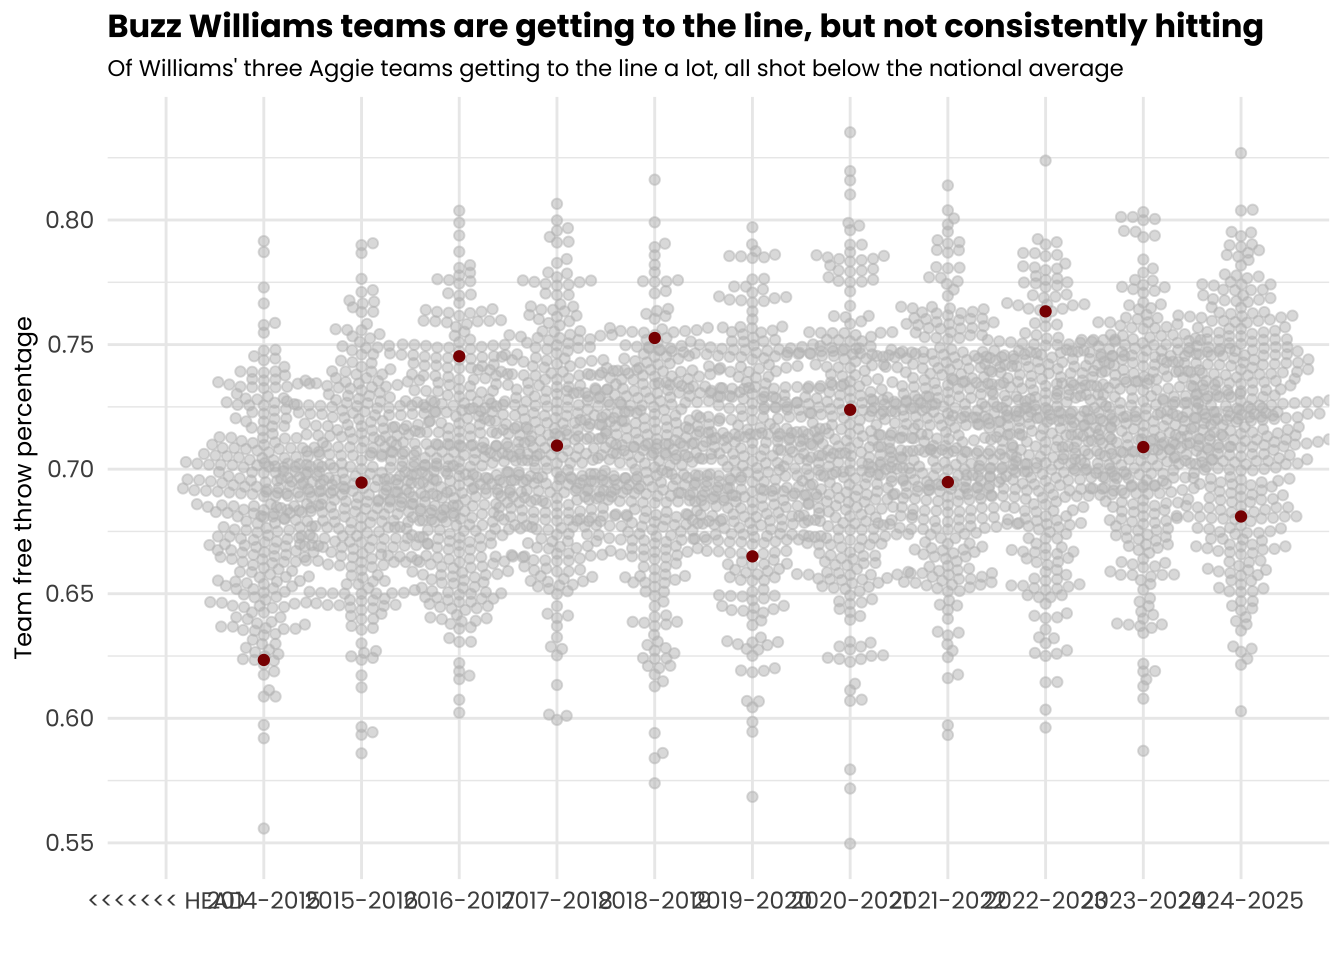
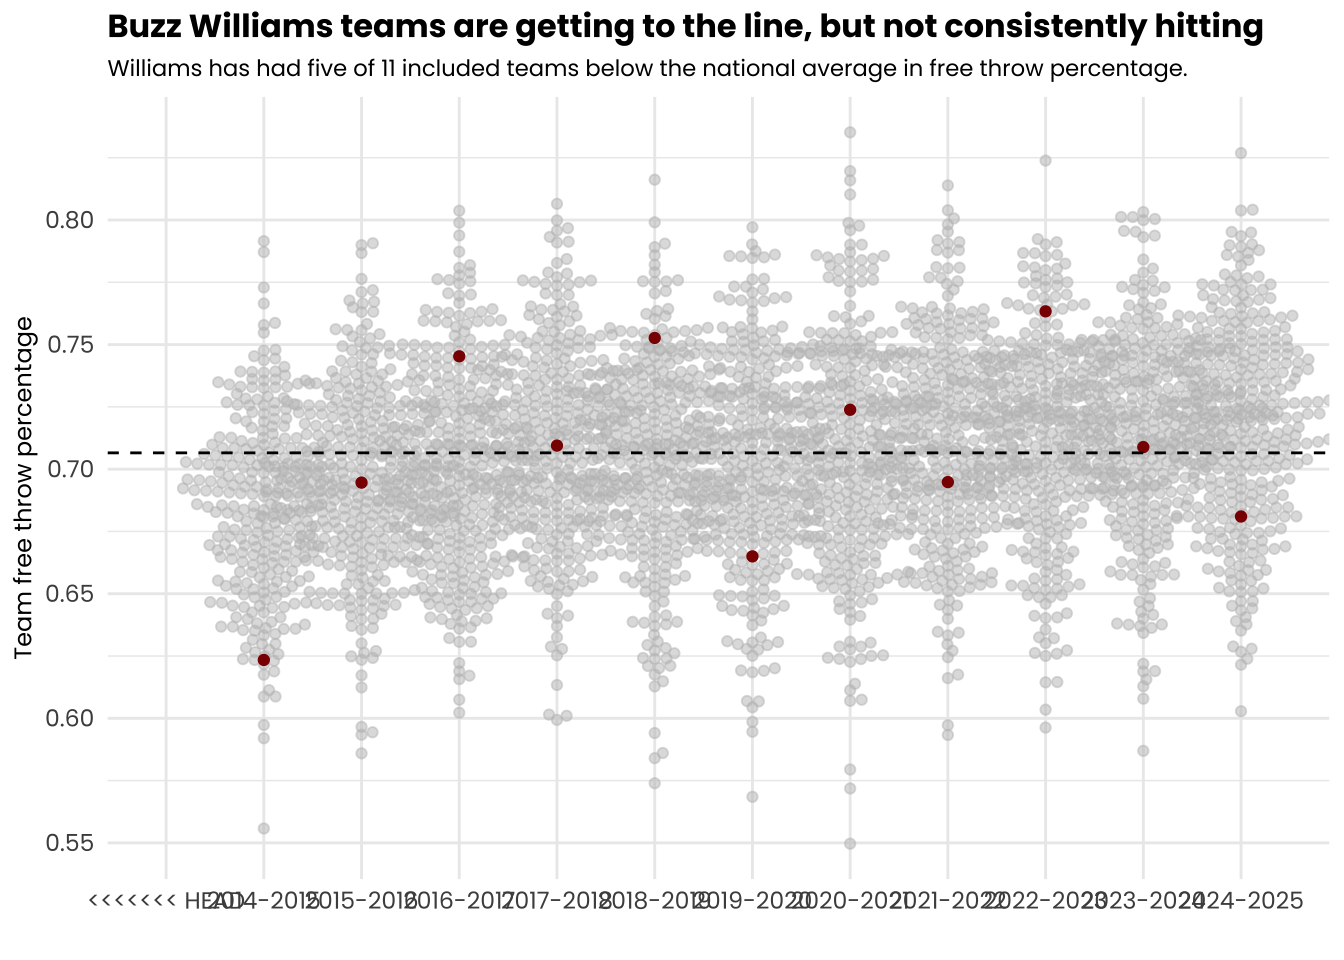
updates

Changed region(s): [[0.0625, 0.0625, 0.875, 0.0938]]

diff --git a/docs/posts/buzz_williams/index.html b/docs/posts/buzz_williams/index.html
@@ -378,12 +378,12 @@ date  (1): Date
 <div class="sourceCode cell-code" id="cb17"><pre class="sourceCode r code-with-copy"><code class="sourceCode r"><span id="cb17-1"><a href="#cb17-1" aria-hidden="true" tabindex="-1"></a><span class="fu">ggplot</span>() <span class="sc">+</span> </span>
 <span id="cb17-2"><a href="#cb17-2" aria-hidden="true" tabindex="-1"></a>  <span class="fu">geom_beeswarm</span>(<span class="at">data =</span> logs_summary <span class="sc">|&gt;</span> <span class="fu">filter</span>(Season <span class="sc">!=</span> <span class="st">"2025-2026"</span>), <span class="fu">aes</span>(<span class="at">x =</span> Season, <span class="at">y =</span> avg_ftpct), <span class="at">color =</span> <span class="st">"gray"</span>, <span class="at">alpha =</span> <span class="fl">0.5</span>) <span class="sc">+</span></span>
 <span id="cb17-3"><a href="#cb17-3" aria-hidden="true" tabindex="-1"></a>  <span class="fu">geom_beeswarm</span>(<span class="at">data =</span> buzz_summary <span class="sc">|&gt;</span>  <span class="fu">filter</span>(Season <span class="sc">!=</span> <span class="st">"2025-2026"</span>), <span class="fu">aes</span>(<span class="at">x =</span> Season, <span class="at">y =</span> avg_ftpct), <span class="at">color =</span> <span class="st">"darkred"</span>) <span class="sc">+</span></span>
-<span id="cb17-4"><a href="#cb17-4" aria-hidden="true" tabindex="-1"></a>  <span class="co">#geom_hline(yintercept = 0.4439769, linetype = "dashed", color = "black") +</span></span>
+<span id="cb17-4"><a href="#cb17-4" aria-hidden="true" tabindex="-1"></a>  <span class="fu">geom_hline</span>(<span class="at">yintercept =</span> <span class="fl">0.7065408</span> , <span class="at">linetype =</span> <span class="st">"dashed"</span>, <span class="at">color =</span> <span class="st">"black"</span>) <span class="sc">+</span></span>
 <span id="cb17-5"><a href="#cb17-5" aria-hidden="true" tabindex="-1"></a>  <span class="fu">labs</span>(</span>
 <span id="cb17-6"><a href="#cb17-6" aria-hidden="true" tabindex="-1"></a>    <span class="at">x =</span> <span class="st">""</span>,</span>
 <span id="cb17-7"><a href="#cb17-7" aria-hidden="true" tabindex="-1"></a>    <span class="at">y =</span> <span class="st">"Team free throw percentage"</span>,</span>
 <span id="cb17-8"><a href="#cb17-8" aria-hidden="true" tabindex="-1"></a>    <span class="at">title =</span> <span class="st">"Buzz Williams teams are getting to the line, but not consistently hitting"</span>,</span>
-<span id="cb17-9"><a href="#cb17-9" aria-hidden="true" tabindex="-1"></a>    <span class="at">subtitle =</span> <span class="st">"Of Williams' three Aggie teams getting to the line a lot, all shot below the national average"</span></span>
+<span id="cb17-9"><a href="#cb17-9" aria-hidden="true" tabindex="-1"></a>    <span class="at">subtitle =</span> <span class="st">"Williams has had five of 11 included teams below the national average in free throw percentage."</span></span>
 <span id="cb17-10"><a href="#cb17-10" aria-hidden="true" tabindex="-1"></a>  ) <span class="sc">+</span></span>
 <span id="cb17-11"><a href="#cb17-11" aria-hidden="true" tabindex="-1"></a>  <span class="fu">theme_minimal</span>() <span class="sc">+</span></span>
 <span id="cb17-12"><a href="#cb17-12" aria-hidden="true" tabindex="-1"></a>  <span class="fu">theme</span>(</span>
@@ -406,7 +406,7 @@ date  (1): Date
 </div>
 </div>
 </div>
-<p>Most concerning, perhaps, are those three Texas A&amp;M teams at the end of Williams tenure in College Station. All three may have gotten to the three throw line a lot, but all three struggled to then put the ball in the basket which, generally, is indeed the goal. The prior two Williams teams were especially bad.</p>
+<p>OUTDATED TEXT BASED ON ORIGINAL CHART USING FIELD GOAL PCT AND NOT FREE THROW: Most concerning, perhaps, are those three Texas A&amp;M teams at the end of Williams tenure in College Station. All three may have gotten to the three throw line a lot, but all three struggled to then put the ball in the basket which, generally, is indeed the goal. The prior two Williams teams were especially bad.</p>
 <p>But this all poses a question of why Buzz Williams teams need to shoot so many free throws. According to field goal shooting data, Williams’ teams have consistently been poor shooting both on 2-point and 3-point field goals.</p>
 <div class="cell">
 <details class="code-fold">

diff --git a/docs/index.html b/docs/index.html
@@ -206,7 +206,7 @@ window.Quarto = {
 
 <div class="quarto-listing quarto-listing-container-default" id="listing-listing">
 <div class="list quarto-listing-default">
-<div class="quarto-post image-right" data-index="0" data-listing-date-sort="1763614800000" data-listing-file-modified-sort="1764094461045" data-listing-date-modified-sort="NaN" data-listing-reading-time-sort="12" data-listing-word-count-sort="2202">
+<div class="quarto-post image-right" data-index="0" data-listing-date-sort="1763614800000" data-listing-file-modified-sort="1764094896504" data-listing-date-modified-sort="NaN" data-listing-reading-time-sort="12" data-listing-word-count-sort="2215">
 <div class="thumbnail"><a href="./posts/buzz_williams/index.html" class="no-external">
 
 <p class="card-img-top"><img src="posts/buzz_williams/index_files/figure-html/unnamed-chunk-3-1.png"  class="thumbnail-image card-img"/></p>
